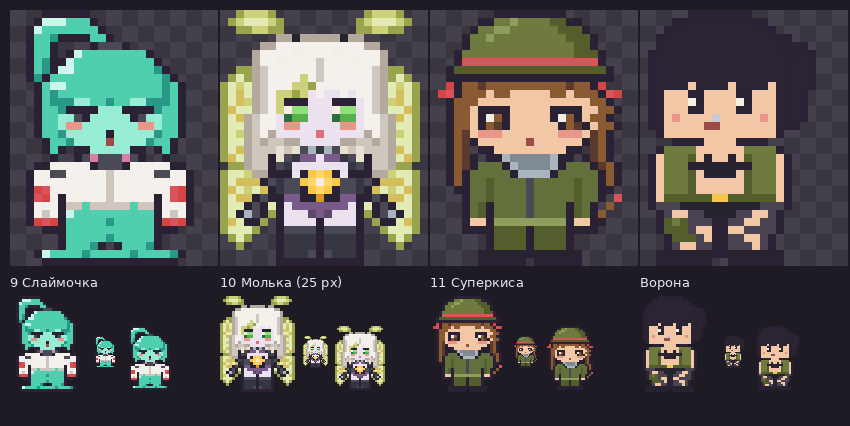
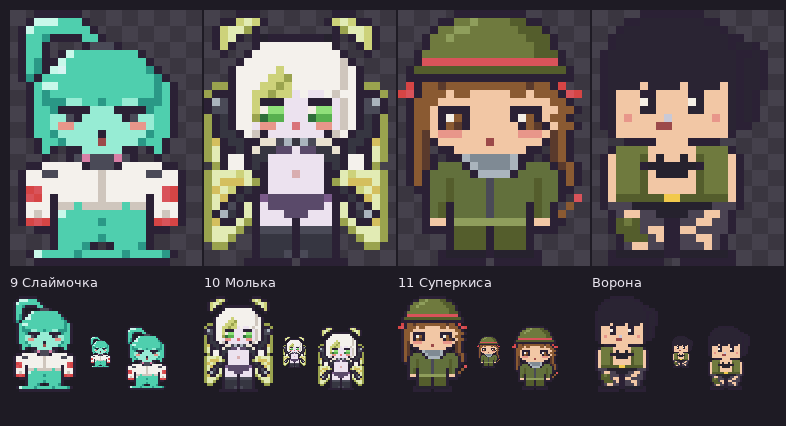
Moth girl: back to the four-arm version plus a raised pair of arms, no lamp
Claude-Session: https://claude.ai/code/session_018urhzN5ye6LSdpgHs5FJRe

diff --git a/drafts/workers-slime-moth-kisa.js b/drafts/workers-slime-moth-kisa.js
@@ -1,12 +1,12 @@
 // Черновик сотрудников: Слаймочка (9), Молька (10), Суперкиса (11). В игру ещё не вставлены, Слаймочка и Суперкиса одобрены, Молька ждёт одобрения. Перки и скиллы ещё обсуждаются (docs/employees.md, раздел «План: Слаймочка, Молька, Суперкиса»).
-// Спрайты 23×32 (Молька 25×32), RLE как в game/index.html. Превью drafts/slime-moth-kisa-preview.png (справа для сравнения Ворона).
+// Спрайты 23×32, RLE как в game/index.html. Превью drafts/slime-moth-kisa-preview.png (справа для сравнения Ворона).
 // Новые цвета в PAL (русские буквы): т: '#4fcfae' (слайм), м: '#2a9886' (тень слайма), н: '#c8f8ea' (блик слайма), п: '#97ecd4' (лицо слайма), в: '#e2ebb4' (крылья Мольки), и: '#ece2ef' (кожа Мольки, тот же цвет, что и в drafts/workers.js)
 
 // ===== Слаймочка: девочка из бирюзовой слизи, хвост-капля на макушке с чёрной резинкой, сонные глаза с ресницами, румянец, ротик «о». Чёрный ошейник с розовым, белая укороченная куртка с красными полосами на рукавах и чёрными нашивками на плечах, руки на бёдрах. Круглый животик, ноги стекают в лужицу =====
   const SLIME = ['3.6k14.', '2.k3н3тk13.', '.kн7тk12.', '.k2тм4k2тk11.', '.k2тk4.k3gk9.', '.k2тk.kн8тk6.', '.kтм2kн10тk5.', '.kтмkн[10тмk4.', '.kмk14тмk3.', '2.kт2н12тмтk2.', '2.kтм13тмтk2.', '2.kт3м2п2тм2т2п3мтk2.', '2.k2тм4k3п4kм2тk2.', '2.k2т2пgk5пkg2п2тk2.', '2.k2тп2c7п2cп2тk2.', '2.k2тм5пk5пм2тk2.', '3.k2тм4пm4пм2тk3.', '3.kтk.2k5п2k.kтk3.', '4.k2.kgz3gzgk2.k4.', '2.2k5Wk3gk5W2k2.', '.k2W2g5WD5W2g2Wk.', '.k9WD9Wk.', '.k$R7WD7WR$k.', '.kR$Wk5WD5WkWR$k.', '.k3Wk2Dт5Dт2Dk3Wk.', '.kWDWkн10тkWDWk.', '.k$R$k5тм5тk$R$k.', '3.3k11т3k3.', '5.k5тм5тk5.', '5.k3тмk.k3тмk5.', '2.kн4тм5тм4тмk2.', '3.17k3.'];
 
-// ===== Молька: милая девочка-моль с шестью руками, спрайт 25×32 (на 2 px шире остальных из-за крыльев). Белые волосы-каре с пробором и чёлкой, зелёная прядь, зелёные усики-листочки на чёрных заколках, большие зелёные глаза, румянец. Верхние руки в чёрных перчатках сложены под подбородком, средние держат светящуюся лампочку (моль летит на свет), нижние тонкие руки насекомого у бёдер. Белый пушистый воротник, фиолетовые лифчик и трусики, чёрные чулки. Сзади бледно-зелёные крылья с золотыми прожилками и «глазками» =====
-  const MOTH = ['2.ь3ль11.ь3ль2.', '.ьл3вль9.ьл3вль.', '2.2ь2л2ь9.2ь2л2ь2.', '7.2^b5^b2^7.', '5.2^11W2^5.', '4.^4W2w3W2w4W^4.', '4.^2W2w3WD3W2w2W^4.', '2.2ь^D6WD6WD^2ь2.', '.ьвь^D4WлWD6WD^ьвь.', 'ьвлв^D3W2ль7WD^влвь', 'ьвYв^DW2льлиW2иWи2WD^вYвь', 'ьвYл^DWл3k3и3kиWD^лYвь', 'ьY2в^DWлw2;3иw2;иWD^2вYь', 'ьвY^D2Wи/2:3и/2:и2WD^Yвь', 'ь2в^D2Wи2c5и2cи2WD^2вь', 'ьвл^DW^5иE5и^WD^лвь', 'ь2в^D^2D2^5и2^2D^D^2вь', 'ьвY^3DxDxgaGagxDx3D^Yвь', 'ьYв^2DkxgG2Pи2PGgxk2D^вYь', '.2ь^2DkgG7иGgk2D^2ь.', 'ь2вл2^3kиkZ*Zkи3k2^л2вь', 'ьв3YkgG2gZ*w*Z2gGgk3Yвь', 'ьYвлвYkG2gkZ*Zk2gGkYвлвYь', 'ьв2Ykg2k2P2kX2k2P2kgk2Yвь', 'ь2вkgkвkи7Pиkвkgk2вь', 'ьвkagkьk3иdPd3иkьkgakвь', 'ьYв2kь.k4иk4иk.ь2kвYь', 'ь3вь2.k4gk4gk2.ь3вь', '.ьвь3.k4Gk4Gk3.ьвь.', '2.ь4.k4Gk4Gk4.ь2.', '7.k3Ggkg3Gk7.', '7.11k7.'];
+// ===== Молька: милая девочка-моль с шестью руками. Белые длинные волосы с зелёной прядью, зелёные усики-листочки на чёрных заколках, большие зелёные глаза, румянец. Верхние руки подняты по бокам головы, средние в чёрных перчатках сложены под подбородком, нижние тонкие руки насекомого у бёдер. Белый пушистый воротник, фиолетовые лифчик и трусики, чёрные чулки. Сзади бледно-зелёные крылья с золотыми прожилками и «глазками» =====
+  const MOTH = ['4.3k9.3k4.', '2.2kлвлk7.kлвл2k2.', '.kл2вьk9.kь2влk.', '.kлвk.kb7kbk.kвлk.', '.kлk2.k9Wk2.kлk.', '2.k2.k11Wk2.k2.', '4.k12WDk4.', '3.k5Wл7WDWk3.', '3.k4W2ль6WDWk3.', '.2ьk3W2льл6WDWk2ь.', 'ь3k2W2ль2лиW2иWD2W3kь', 'kagk2Wл3k3и3kиDWkgak', 'k2gk2Wлw2;3иw2;иDWk2gk', 'ьkGk2Wь/2:3и/2:иDWkGkь', 'ьkGk2Wи2c2иE2и2cиDWkGkь', 'ьk2GkWDk7иkDWk2Gkь', 'ьYk2G2k2xgaGag2x2k2GkYь', 'ьв2kGkx2G2dи2d2GxkG2kвь', 'ьвk2Wk2G7и2Gk2Wkвь', '.ьk2WkGk7иkGk2Wkь.', 'ь3влв2k3иi3и2kвл3вь', 'ьв3Yвьk7иkьв3Yвь', 'ьYвлkG2k7и2kGkлвYь', 'ьвYkG2kP7dP2kGkYвь', 'ьвkgkвkи7dиkвkgkвь', 'ьkaGkвk3и3d3иkвkGakь', 'ьY2kвьk4иk4иkьв2kYь', 'ь3вь.k4gk4gk.ь3вь', 'ь2вь2.k4Gk4Gk2.ь2вь', '.2ь3.k4Gk4Gk3.2ь.', '6.k3Ggkg3Gk6.', '5.6k.6k5.'];
 
 // ===== Суперкиса: тёмно-зелёная каска с красной полосой, каштановые хвостики с красными бусинами, большие карие глаза, румянец. Зелёная стёганая куртка с серым высоким воротником, зелёные штаны, чёрные ботинки. В руке кисточка с красной краской («мая картина») =====
   const SUPERKISA = ['7.9k7.', '5.2k2oL4o2O2k5.', '4.k2o2L6o3Ok4.', '3.k2oL9o3Ok3.', '3.k13o2Ok3.', '2.k14o3Ok2.', '2.k17Rk2.', '.k19Ok.', '.21k.', '.$k2CB10CB2Ck$2.', '$Rk3Cs2C5s2Cs3CkR$', '.k3C14s2Ck.', '.k2Cs4k5s4k2s2Ck', '.k2CskwCk5skwCks2Ck.', '.k2CskCBk6skCBks2Ck', '.kCBs3c7s3csBCk.', '.kCBk6sm6skBCk.', '.kCB.2k9s2k.BCk.', '.kCBk.2ka5Aa2k.kBCk.', '.kCBk3Mka4Aak3MkBCk', '.kCk5Mk4ak5MkCk', '.kCk2MO4Mg5MO2MkCk', '2.2k2MO4Mg5MO2M2k.', '3.k2MO4Mg5MO2Mk.R', '3.kMOk4Mg4MkOMk.C.', '3.kMOk4Mg4MkOMkC2.', '3.k2sk9Lk2s2k2.', '3.4k4Ok4O4k3.', '6.k4Ok4Ok6.', '6.k4Ok4Ok6.', '5.k5bk5bk5.', '5.6k.6k5.'];

diff --git a/docs/employees.md b/docs/employees.md
@@ -152,5 +152,5 @@
 Спрайты в `drafts/workers-slime-moth-kisa.js`, превью `drafts/slime-moth-kisa-preview.png` (справа для сравнения Ворона). Новые цвета в `PAL`: т, м, н, п (слайм), в (крылья Мольки), и (кожа Мольки, тот же цвет, что в `drafts/workers.js`). Имена 9 и 10 можно менять, имя Суперкисы не меняем. Перки, скиллы, статы и когда приходят, ещё обсуждаются.
 
 - **Слаймочка** (9, референс от игрока): девочка из бирюзовой слизи. Хвост-капля на макушке с чёрной резинкой, сонные глаза, румянец, ротик «о». Чёрный ошейник, белая укороченная куртка с красными полосами и чёрными нашивками, руки на бёдрах, круглый животик, ноги стекают в лужицу. Надпись с референса заменена на «Slime now!» (её фраза, пригодится для названия скилла).
-- **Молька** (10, девочка-насекомое, референс от игрока): милая, с шестью руками. Спрайт 25×32, на 2 px шире остальных из-за крыльев: больше в высоту нельзя, игра рисует всё на маленьком холсте, и лишние пиксели сделали бы её крупнее остальных; в шкафчике её надо рисовать на 1 px левее. Белые волосы-каре с пробором и чёлкой (без сплошной обводки, чтобы не было похоже на капюшон), зелёная прядь, зелёные усики-листочки на чёрных заколках, большие зелёные глаза, румянец. Верхние руки в чёрных перчатках сложены под подбородком, средние держат светящуюся лампочку, нижние тонкие руки насекомого у бёдер. Белый пушистый воротник, фиолетовые лифчик и трусики, чёрные чулки. Сзади бледно-зелёные крылья с золотыми прожилками и «глазками».
+- **Молька** (10, девочка-насекомое, референс от игрока): милая, с шестью руками. Белые длинные волосы с зелёной прядью, зелёные усики-листочки на чёрных заколках, большие зелёные глаза, румянец. Верхние руки подняты по бокам головы, средние в чёрных перчатках сложены под подбородком, нижние тонкие руки насекомого у бёдер. Белый пушистый воротник, фиолетовые лифчик и трусики, чёрные чулки. Сзади бледно-зелёные крылья с золотыми прожилками и «глазками». Спрайт 23×32 как у всех: больше пикселей сделали бы её крупнее остальных, игра рисует всё на маленьком холсте.
 - **Суперкиса** (11, референс от игрока, мем «мая картина»): тёмно-зелёная каска с красной полосой, каштановые хвостики с красными бусинами, большие карие глаза. Зелёная стёганая куртка с серым воротником, зелёные штаны, ботинки, в руке кисточка с красной краской.
